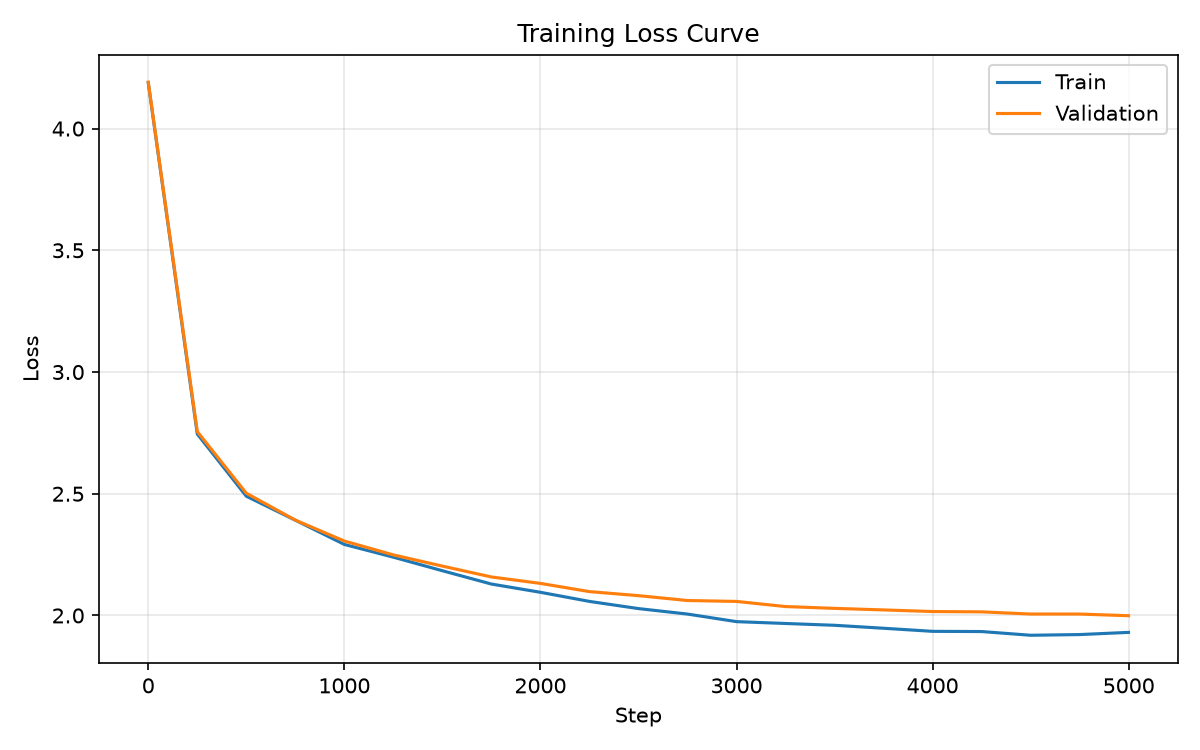
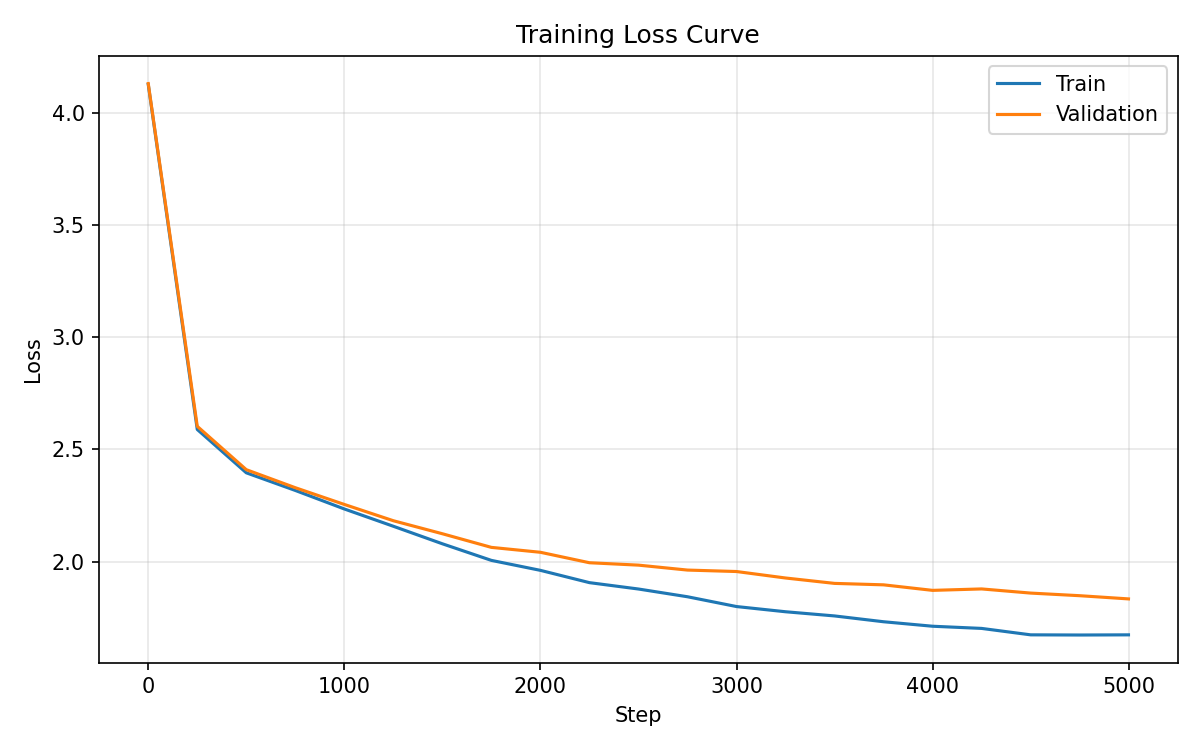
Fix audit findings: accurate numbers and labels

diff --git a/README.md b/README.md
@@ -155,9 +155,10 @@ for "did the model learn anything": it counts P(next | current) on
 the training split and evaluates the exact cross-entropy on
 validation — no parameters, no training. On Tiny Shakespeare the
 bigram validation loss is **2.51**, while the default transformer
-reaches **~2.04** — the model genuinely learns beyond token
-co-occurrence statistics, and every ablation variant can be read
-against that floor.
+reaches **~2.01** (3-seed mean at 2000 iterations, see
+`results/ablation_results.csv`) — the model genuinely learns beyond
+token co-occurrence statistics, and every ablation variant can be
+read against that floor.
 
 Results are saved to `results/ablation_results.csv` and `results/ablation_plots.png`.
 Attention heatmaps are saved to `results/attention/`.
